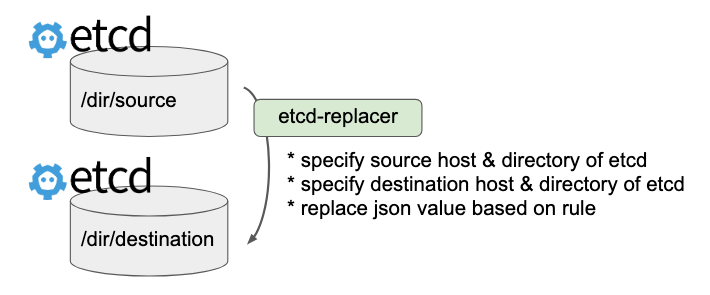
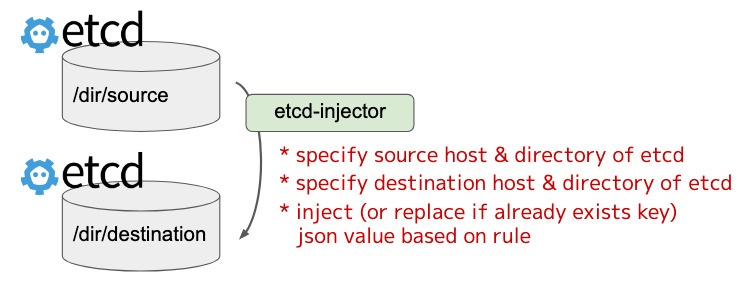
etcd-injector: initial released!

diff --git a/pkg/injector/injector_test.go b/pkg/injector/injector_test.go
@@ -1,0 +1,97 @@
+package injector
+
+import (
+	"os"
+	"testing"
+
+	"github.com/ShotaKitazawa/etcd-injector/pkg/etcdclient"
+	"github.com/ShotaKitazawa/etcd-injector/pkg/rulesource"
+	"github.com/stretchr/testify/assert"
+)
+
+func TestInjector(t *testing.T) {
+	tests := []struct {
+		name      string
+		keyValues []etcdclient.KeyValue
+		rules     []rulesource.Rule
+		results   []etcdclient.KeyValue
+	}{
+		{
+			"normal_1",
+			[]etcdclient.KeyValue{
+				{Key: "/test/src/1", Value: []byte(`{"hoge":"ooo"}`)},
+			},
+			[]rulesource.Rule{
+				{JSONPath: ".hoge", Repl: "replaced"},
+			},
+			[]etcdclient.KeyValue{
+				{Key: "/test/src/1", Value: []byte(`{"hoge":"replaced"}`)},
+			},
+		},
+		{
+			"normal_2",
+			[]etcdclient.KeyValue{
+				{Key: "/test/src/1", Value: []byte(`{"hoge":"ooo"}`)},
+				{Key: "/test/src/2", Value: []byte(`{"hoge":"xxx"}`)},
+			},
+			[]rulesource.Rule{
+				{JSONPath: ".hoge", Repl: "replaced"},
+			},
+			[]etcdclient.KeyValue{
+				{Key: "/test/src/1", Value: []byte(`{"hoge":"replaced"}`)},
+				{Key: "/test/src/2", Value: []byte(`{"hoge":"replaced"}`)},
+			},
+		},
+		{
+			"normal_2",
+			[]etcdclient.KeyValue{
+				{Key: "/test/src/1", Value: []byte(`{"hoge":"ooo"}`)},
+			},
+			[]rulesource.Rule{
+				{JSONPath: ".injected", Repl: "value"},
+			},
+			[]etcdclient.KeyValue{
+				{Key: "/test/src/1", Value: []byte(`{"hoge":"ooo","injected":"value"}`)},
+			},
+		},
+	}
+	for _, tt := range tests {
+		t.Run(tt.name, func(t *testing.T) {
+			results, err := Inject(tt.keyValues, tt.rules)
+
+			assert.NoError(t, err)
+			assert.Equal(t, tt.results, results)
+		})
+	}
+
+}
+
+func Test_injectOne(t *testing.T) {
+	tests := []struct {
+		name     string
+		input    []byte
+		jsonPath string
+		repl     interface{}
+		output   []byte
+	}{
+		{"normal_1", []byte(`{"key":"value"}`), ".key", "replaced", []byte(`{"key":"replaced"}`)},
+		{"normal_2", []byte(`{"key":"value"}`), ".key", 1, []byte(`{"key":1}`)},
+		{"normal_3", []byte(`[{"key":"value"}]`), ".[0].key", "replaced", []byte(`[{"key":"replaced"}]`)},
+	}
+	for _, tt := range tests {
+		t.Run(tt.name, func(t *testing.T) {
+			output, err := injectOne(tt.input, tt.jsonPath, tt.repl)
+
+			assert.NoError(t, err)
+			assert.Equal(t, tt.output, output)
+		})
+	}
+}
+
+func TestMain(m *testing.M) {
+	// test
+	status := m.Run()
+
+	// exit
+	os.Exit(status)
+}

diff --git a/pkg/injector/injector.go b/pkg/injector/injector.go
@@ -1,0 +1,72 @@
+package injector
+
+import (
+	"encoding/json"
+	"fmt"
+	"strconv"
+
+	"github.com/itchyny/gojq"
+
+	"github.com/ShotaKitazawa/etcd-injector/pkg/etcdclient"
+	"github.com/ShotaKitazawa/etcd-injector/pkg/rulesource"
+)
+
+func Inject(keyValues []etcdclient.KeyValue, rules []rulesource.Rule) (results []etcdclient.KeyValue, err error) {
+	for _, rule := range rules {
+		for _, kv := range keyValues {
+			result, err := injectOne(kv.Value, rule.JSONPath, rule.Repl)
+			if err != nil {
+				return nil, err
+			}
+			results = append(results, etcdclient.KeyValue{
+				Key:   kv.Key,
+				Value: result,
+			})
+		}
+	}
+	return results, nil
+}
+
+func injectOne(input []byte, jsonPath string, replInterface interface{}) ([]byte, error) {
+	repl, err := parseRepl(replInterface)
+	if err != nil {
+		return nil, err
+	}
+
+	var m []interface{}
+	if err := json.Unmarshal([]byte("["+string(input)+"]"), &m); err != nil {
+		return nil, err
+	}
+
+	q := fmt.Sprintf(`.[0]%s|=%s | .[0]`, jsonPath, repl)
+	query, err := gojq.Parse(q)
+	if err != nil {
+		return nil, err
+	}
+	v, ok := query.Run(m).Next()
+	if !ok {
+		return nil, fmt.Errorf("gojq iterator cannot Next()")
+	}
+	if err, ok := v.(error); ok {
+		return nil, err
+	}
+
+	output, err := json.Marshal(v)
+	if err != nil {
+		return nil, err
+	}
+	return output, nil
+}
+
+func parseRepl(replInterface interface{}) (string, error) {
+	switch t := replInterface.(type) {
+	case string:
+		return `"` + t + `"`, nil
+	case int:
+		return strconv.Itoa(t), nil
+	case int64:
+		return strconv.Itoa(int(t)), nil
+	default:
+		return "", fmt.Errorf(`repl is unsupported type: %v`, t)
+	}
+}

diff --git a/pkg/etcdclient/client_test.go b/pkg/etcdclient/client_test.go
@@ -4,17 +4,17 @@ import (
 	"context"
 	"os"
 	"testing"
+	"time"
 
 	"github.com/stretchr/testify/assert"
 	"go.etcd.io/etcd/clientv3"
 
-	"github.com/ShotaKitazawa/etcd-replacer/pkg/mock"
+	"github.com/ShotaKitazawa/etcd-injector/pkg/mock"
 )
 
 var etcdEndpointsForTest []string
 
 func TestLsRecursive(t *testing.T) {
-	t.Parallel()
 	client, err := New(Config{
 		Endpoints: etcdEndpointsForTest,
 	})
@@ -55,7 +55,6 @@ func TestLsRecursive(t *testing.T) {
 }
 
 func TestPut(t *testing.T) {
-	t.Parallel()
 	client, err := New(Config{
 		Endpoints: etcdEndpointsForTest,
 	})
@@ -92,9 +91,22 @@ func TestPut(t *testing.T) {
 func TestMain(m *testing.M) {
 	var err error
 
-	etcdEndpointsForTest, err = mock.StartEtcdServer()
-	if err != nil {
-		panic(err)
+	// run etcd server (retry: 10s * 6)
+	for i := 1; i <= 6; i++ {
+		var errRecorver error
+		if err := func() error {
+			defer func() {
+				var ok bool
+				if errRecorver, ok = recover().(error); ok && errRecorver != nil {
+					time.Sleep(time.Second * 10)
+				}
+			}()
+			etcdEndpointsForTest, err = mock.StartEtcdServer()
+			return err
+		}(); err != nil || errRecorver != nil {
+			continue
+		}
+		break
 	}
 
 	// put initialize value by go.etcd.io/etcd/clientv3

diff --git a/etcd-injector_test.go b/etcd-injector_test.go
@@ -4,8 +4,9 @@ import (
 	"context"
 	"os"
 	"testing"
+	"time"
 
-	"github.com/ShotaKitazawa/etcd-replacer/pkg/mock"
+	"github.com/ShotaKitazawa/etcd-injector/pkg/mock"
 	"github.com/stretchr/testify/assert"
 	"go.etcd.io/etcd/clientv3"
 )
@@ -28,7 +29,6 @@ func Test(t *testing.T) {
 	}
 	for _, tt := range tests {
 		t.Run(tt.name, func(t *testing.T) {
-			t.Parallel()
 			config.SrcDirectory = tt.basePath
 			config.DstDirectory = tt.targetPath
 			err := Run(config)
@@ -41,9 +41,22 @@ func Test(t *testing.T) {
 func TestMain(m *testing.M) {
 	var err error
 
-	etcdEndpointsForTest, err = mock.StartEtcdServer()
-	if err != nil {
-		panic(err)
+	// run etcd server (retry: 10s * 6)
+	for i := 1; i <= 6; i++ {
+		var errRecorver error
+		if err := func() error {
+			defer func() {
+				var ok bool
+				if errRecorver, ok = recover().(error); ok && errRecorver != nil {
+					time.Sleep(time.Second * 10)
+				}
+			}()
+			etcdEndpointsForTest, err = mock.StartEtcdServer()
+			return err
+		}(); err != nil || errRecorver != nil {
+			continue
+		}
+		break
 	}
 
 	// put initialize value by go.etcd.io/etcd/clientv3

diff --git a/main.go b/main.go
@@ -8,7 +8,7 @@ import (
 )
 
 var (
-	appName    = "etcd-replacer"
+	appName    = "etcd-injector"
 	appVersion = "dummy"
 )
 
@@ -26,7 +26,7 @@ func newApp() *cli.App {
 	app := cli.NewApp()
 	app.Name = appName
 	app.Version = appVersion
-	app.Usage = "recursive copy & replace json value of etcd"
+	app.Usage = "recursive copy & inject json value of etcd"
 	app.Flags = []cli.Flag{
 		&cli.StringSliceFlag{
 			Name:     "src-endpoints",
@@ -57,7 +57,7 @@ func newApp() *cli.App {
 		&cli.StringFlag{
 			Name:     "rules-filepath",
 			Aliases:  []string{"f"},
-			Usage:    "path of file written replace rules",
+			Usage:    "path of file written injection rules",
 			Required: true,
 			EnvVars:  []string{"RULES_FILEPATH"},
 		},

diff --git a/etcd-injector.go b/etcd-injector.go
@@ -3,9 +3,9 @@ package main
 import (
 	"strings"
 
-	"github.com/ShotaKitazawa/etcd-replacer/pkg/etcdclient"
-	"github.com/ShotaKitazawa/etcd-replacer/pkg/replacer"
-	"github.com/ShotaKitazawa/etcd-replacer/pkg/rulesource/file"
+	"github.com/ShotaKitazawa/etcd-injector/pkg/etcdclient"
+	"github.com/ShotaKitazawa/etcd-injector/pkg/injector"
+	"github.com/ShotaKitazawa/etcd-injector/pkg/rulesource/file"
 )
 
 func Run(c config) error {
@@ -37,8 +37,8 @@ func Run(c config) error {
 		return err
 	}
 
-	// replace values based rule
-	results, err := replacer.Replace(keyValues, rules)
+	// inject (or replace) values based rule
+	results, err := injector.Inject(keyValues, rules)
 	if err != nil {
 		return err
 	}

diff --git a/pkg/mock/etcd.go b/pkg/mock/etcd.go
@@ -12,7 +12,7 @@ func StartEtcdServer() ([]string, error) {
 	// TODO: undisplay log
 	if err := func() error {
 		cfg := embed.NewConfig()
-		cfg.Dir = "/tmp/.etcd-replacer.test.etcd"
+		cfg.Dir = "/tmp/.etcd-injector.test.etcd"
 		e, err := embed.StartEtcd(cfg)
 		if err != nil {
 			panic(err)

diff --git a/pkg/rulesource/file/file.go b/pkg/rulesource/file/file.go
@@ -3,7 +3,7 @@ package file
 import (
 	"io/ioutil"
 
-	"github.com/ShotaKitazawa/etcd-replacer/pkg/rulesource"
+	"github.com/ShotaKitazawa/etcd-injector/pkg/rulesource"
 	"gopkg.in/yaml.v2"
 )
 

diff --git a/README.md b/README.md
@@ -1,5 +1,5 @@
 ### About
 
-recursive copy & replace json value of etcd
+recursive copy & inject (or replace) json value of etcd
 
 ![comcept](./images/comcept.png)
